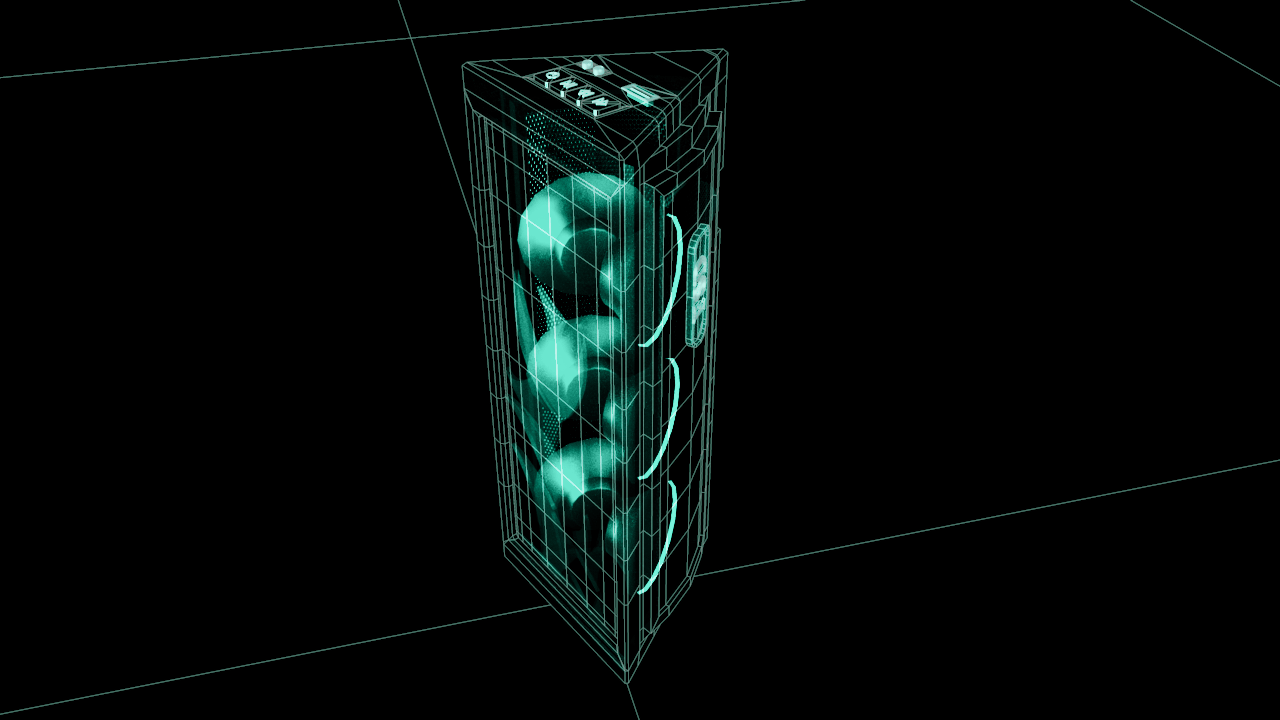
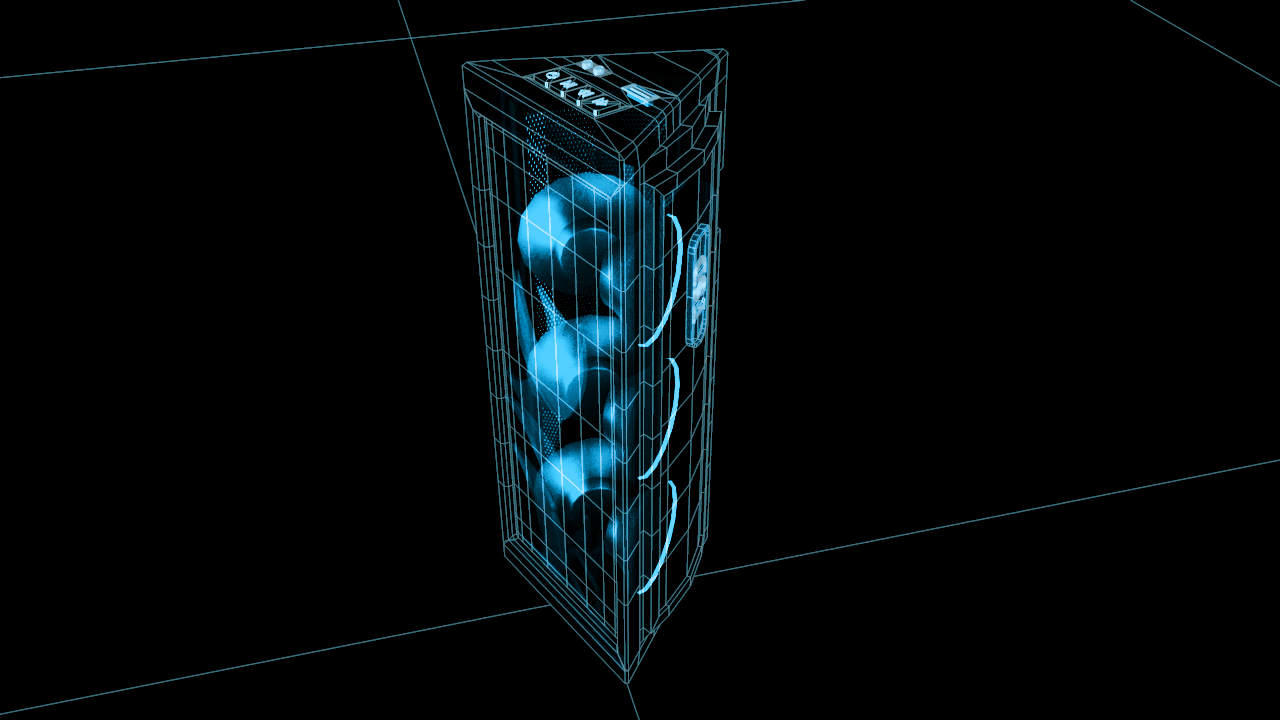
feat: Slider variables
* Make the X-Ray images not draggable
* Set a CSS custom property for the X-Ray progress, which is to be controlled through JS
* Set a box shadow for the X-Ray viewport
* Set the JS variable for the X-Ray slider and its progress

Changed region(s): [[0.375, 0.1528, 0.5625, 0.825], [0.4688, 0.1222, 0.5312, 0.1528], [0.4375, 0.825, 0.4688, 0.8861]]

diff --git a/css/main.css b/css/main.css
@@ -1,1 +1,1 @@
-@import"https://fonts.googleapis.com/css2?family=Georama:ital,wght@0,100..900;1,100..900&display=swap";nav ul,#main-header nav ul{margin:0;padding:0;list-style:none}#main-header nav ul{display:flex;flex-direction:row;justify-content:center;align-items:center}#main-header nav ul a{text-decoration:none;color:inherit;transition:.25s 0s all cubic-bezier(0.7, 0.68, 0.22, 1)}#hero,.burger,.logo{background-size:cover;background-position:center center;background-repeat:no-repeat}.burger,.logo{min-height:33px;min-width:33px;background-size:contain}:root{font-size:12px}body{font-family:"Georama",Helvetica,sans-serif;color:#fff}p,h2{-webkit-text-wrap:pretty;-moz-text-wrap:pretty;text-wrap:pretty}h2{text-align:left;font-size:3rem;line-height:1em;font-weight:650;color:rgb(255,68.1,95.0197530864);z-index:5}h2+p{margin-top:1.5rem}p{font-size:1rem;font-weight:250;line-height:1.5em}@media screen and (min-width: 768px){:root{font-size:calc(1px + 1.25vw)}}@media screen and (min-width: 1200px){:root{font-size:min(1px + 1vw,126px)}}model-viewer{width:auto;max-width:1200px;height:700px;background-image:linear-gradient(#343168, #f30023, #7a75bc);margin:0 auto;position:relative}.Hotspot{background:url(../images/hotspot.svg) center no-repeat;border:0;cursor:pointer;width:45px;aspect-ratio:1/1}.Hotspot:not([data-visible]){opacity:0;pointer-events:none}.Hotspot:focus{border:4px solid #0080c8;height:32px;outline:none}.HotspotAnnotation{opacity:0;visibility:hidden;transition:all .5s ease-in-out;background:#000;border-radius:4px;box-shadow:0 2px 4px hsla(0,0%,100%,.25);color:#fff;display:grid;grid-template-columns:23.3% 1fr;align-items:end;gap:1rem;font-family:"Georama",Helvetica Neue,sans-serif;font-size:1.15rem;font-weight:700;max-width:min(30vw,250px);overflow-wrap:break-word;padding:.5rem 1rem;position:absolute;bottom:-100%;left:calc(100% + 1rem);width:-moz-max-content;width:max-content;text-align:left}.Hotspot:hover .HotspotAnnotation{opacity:1;visibility:visible}.HotspotAnnotation p{font-size:.92rem;line-height:1.5rem;font-weight:300;grid-area:2/1/3/3}.HotspotAnnotation p.title{font-size:1.3rem;font-weight:500;grid-area:1/2/2/3}.HotspotAnnotation img{aspect-ratio:1/1;justify-self:end;background-color:#cfcfcf;grid-area:1/1/2/2}model-viewer::part(default-progress-bar){height:30px;background-color:#e89b36}model-viewer::part(default-progress-mask){display:none}header{display:flex;flex-direction:column-reverse}#main-header{position:sticky;z-index:10;inset:0;height:-moz-fit-content;height:fit-content;padding:1dvh 2vw;align-items:center;background-color:#000;overflow:hidden;color:#fff}#main-header nav{opacity:0;max-height:0}#main-header nav ul li a:hover{color:#ff425e}#main-header #nav-links{text-transform:uppercase;font-size:1rem;font-weight:500}#main-header #nav-links li{margin-inline:1.55rem}#main-header #nav-icons{font-size:1.75rem;justify-content:end}#main-header #nav-icons li{margin-inline:.5rem}#main-header .logo{background-position:left center;margin-top:.5rem;height:3.5rem;max-height:40px}@media screen and (max-width: 768px){#burger-btn{justify-self:end}#burger-btn.clicked+nav{opacity:1;max-height:100vh;margin-top:3rem;border-top:2px solid #fff}#burger-btn.clicked+nav #nav-links{margin-top:1rem;flex-direction:column;height:30dvh;min-height:100px;font-size:1.5rem;justify-content:space-between;align-items:start;padding-bottom:5dvh}#burger-btn.clicked+nav #nav-icons{margin-top:2rem;order:-1}}@media screen and (min-width: 768px){#main-header .logo{max-height:unset}#main-header nav{opacity:1;max-height:100vh}#burger-btn{display:none}}#canvas-con{overflow:hidden}#explode-view{margin:0 auto;background-color:#000}:root{--x-ray-progress: 40%}#x-ray{height:-moz-min-content;height:min-content;margin-bottom:4vh;order:-1;container-type:inline-size;container-name:x-ray-text}@container x-ray-text{h2{font-size:min(11.3cqw + 1px,36px)}p{font-size:12px}}#x-ray-viewport{aspect-ratio:4/5}#x-ray-img-con{position:relative;overflow:hidden;height:100%}#x-ray-img-con img{position:absolute;top:0;left:-85%;max-width:1200px;max-height:100%}#x-ray-img-con img:first-child{z-index:6;-webkit-mask-image:linear-gradient(#fff 0%, #fff var(--x-ray-progress), transparent calc(var(--x-ray-progress) + 6%));-moz-mask-image:linear-gradient(#fff 0%, #fff var(--x-ray-progress), transparent calc(var(--x-ray-progress) + 6%));mask-image:linear-gradient(#fff 0%, #fff var(--x-ray-progress), transparent calc(var(--x-ray-progress) + 6%))}#x-ray-slider{writing-mode:vertical-lr;justify-self:start;align-self:center;height:87%}@media screen and (min-width: 768px){#x-ray-con .hrapper{height:75%;aspect-ratio:3/2}#x-ray{margin-left:6%;margin-bottom:0;align-self:end;order:1}#x-ray-viewport{aspect-ratio:unset}@container x-ray-text{h2{font-size:calc(11.3cqw + 1px)}p{font-size:max(12px,4.5cqw + 1px)}}}.logo{cursor:pointer;background-image:url(../images/fsd-logoW.svg)}.burger{background-color:rgba(0,0,0,0);border:none;cursor:pointer}.burger{aspect-ratio:1/1 !important;width:3rem;aspect-ratio:1/1;background-image:url(../images/burger_icon.svg);filter:invert(100%);transition:.25s 0s transform cubic-bezier(0.7, 0.68, 0.22, 1)}.burger.clicked{transform:rotate(90deg)}body{background-color:#000}#hero{position:relative;overflow:hidden;height:90dvh;background-image:url(../images/hero-promo2.jpg);background-color:#360000}#hero::before{content:"";position:absolute;inset:0 0;width:100%;height:100%;background-image:linear-gradient(rgba(18, 1, 188, 0.062745098), rgba(18, 1, 188, 0.1882352941) 40%, rgba(33, 3, 0, 0.8862745098) 97%);background-blend-mode:multiply}#hero>section{height:100%}#intro-text{z-index:2;align-self:end;container-type:inline-size;container-name:intro-text}#intro-text img{width:100%;filter:drop-shadow(4px 4px 4px rgba(0, 0, 0, 0.5137254902))}main{z-index:5}.main-sect{width:100%;height:100dvh;min-height:-moz-max-content;min-height:max-content;display:flex;justify-content:center;align-items:center}.main-sect .wrapper,.main-sect .hrapper{width:100%}.pad-sect{padding:11% 7%}@media screen and (min-width: 768px){#hero{background-position-x:10vw}.main-sect:has(.hrapper){min-height:56.25vmax}.main-sect .wrapper{height:unset;width:100%;max-height:90%}.main-sect .hrapper{width:unset;height:90%;max-width:100%}.pad-sect{padding:2% 5%}}@media screen and (min-aspect-ratio: 4/5){#intro-text img{width:unset;height:25dvh}}/*# sourceMappingURL=main.css.map */
+@import"https://fonts.googleapis.com/css2?family=Georama:ital,wght@0,100..900;1,100..900&display=swap";nav ul,#main-header nav ul{margin:0;padding:0;list-style:none}#main-header nav ul{display:flex;flex-direction:row;justify-content:center;align-items:center}#main-header nav ul a{text-decoration:none;color:inherit;transition:.25s 0s all cubic-bezier(0.7, 0.68, 0.22, 1)}#hero,.burger,.logo{background-size:cover;background-position:center center;background-repeat:no-repeat}.burger,.logo{min-height:33px;min-width:33px;background-size:contain}:root{font-size:12px}body{font-family:"Georama",Helvetica,sans-serif;color:#fff}p,h2{-webkit-text-wrap:pretty;-moz-text-wrap:pretty;text-wrap:pretty}h2{text-align:left;font-size:3rem;line-height:1em;font-weight:650;color:rgb(255,68.1,95.0197530864);z-index:5}h2+p{margin-top:1.5rem}p{font-size:1rem;font-weight:250;line-height:1.5em}@media screen and (min-width: 768px){:root{font-size:calc(1px + 1.25vw)}}@media screen and (min-width: 1200px){:root{font-size:min(1px + 1vw,126px)}}model-viewer{width:auto;max-width:1200px;height:700px;background-image:linear-gradient(#343168, #f30023, #7a75bc);margin:0 auto;position:relative}.Hotspot{background:url(../images/hotspot.svg) center no-repeat;border:0;cursor:pointer;width:45px;aspect-ratio:1/1}.Hotspot:not([data-visible]){opacity:0;pointer-events:none}.Hotspot:focus{border:4px solid #0080c8;height:32px;outline:none}.HotspotAnnotation{opacity:0;visibility:hidden;transition:all .5s ease-in-out;background:#000;border-radius:4px;box-shadow:0 2px 4px hsla(0,0%,100%,.25);color:#fff;display:grid;grid-template-columns:23.3% 1fr;align-items:end;gap:1rem;font-family:"Georama",Helvetica Neue,sans-serif;font-size:1.15rem;font-weight:700;max-width:min(30vw,250px);overflow-wrap:break-word;padding:.5rem 1rem;position:absolute;bottom:-100%;left:calc(100% + 1rem);width:-moz-max-content;width:max-content;text-align:left}.Hotspot:hover .HotspotAnnotation{opacity:1;visibility:visible}.HotspotAnnotation p{font-size:.92rem;line-height:1.5rem;font-weight:300;grid-area:2/1/3/3}.HotspotAnnotation p.title{font-size:1.3rem;font-weight:500;grid-area:1/2/2/3}.HotspotAnnotation img{aspect-ratio:1/1;justify-self:end;background-color:#cfcfcf;grid-area:1/1/2/2}model-viewer::part(default-progress-bar){height:30px;background-color:#e89b36}model-viewer::part(default-progress-mask){display:none}header{display:flex;flex-direction:column-reverse}#main-header{position:sticky;z-index:10;inset:0;height:-moz-fit-content;height:fit-content;padding:1dvh 2vw;align-items:center;background-color:#000;overflow:hidden;color:#fff}#main-header nav{opacity:0;max-height:0}#main-header nav ul li a:hover{color:#ff425e}#main-header #nav-links{text-transform:uppercase;font-size:1rem;font-weight:500}#main-header #nav-links li{margin-inline:1.55rem}#main-header #nav-icons{font-size:1.75rem;justify-content:end}#main-header #nav-icons li{margin-inline:.5rem}#main-header .logo{background-position:left center;margin-top:.5rem;height:3.5rem;max-height:40px}@media screen and (max-width: 768px){#burger-btn{justify-self:end}#burger-btn.clicked+nav{opacity:1;max-height:100vh;margin-top:3rem;border-top:2px solid #fff}#burger-btn.clicked+nav #nav-links{margin-top:1rem;flex-direction:column;height:30dvh;min-height:100px;font-size:1.5rem;justify-content:space-between;align-items:start;padding-bottom:5dvh}#burger-btn.clicked+nav #nav-icons{margin-top:2rem;order:-1}}@media screen and (min-width: 768px){#main-header .logo{max-height:unset}#main-header nav{opacity:1;max-height:100vh}#burger-btn{display:none}}#canvas-con{overflow:hidden}#explode-view{margin:0 auto;background-color:#000}:root{--x-ray-progress: 40%}#x-ray{height:-moz-min-content;height:min-content;margin-bottom:4vh;order:-1;container-type:inline-size;container-name:x-ray-text}@container x-ray-text{h2{font-size:min(11.3cqw + 1px,36px)}p{font-size:12px}}#x-ray-viewport{aspect-ratio:4/5}#x-ray-img-con{position:relative;overflow:hidden;height:100%;box-shadow:.75rem .5rem 1.5rem rgba(255,0,0,.3647058824)}#x-ray-img-con img{position:absolute;top:0;left:-85%;max-width:1200px;max-height:100%}#x-ray-img-con img:first-child{z-index:6;-webkit-mask-image:linear-gradient(#fff 0%, #fff var(--x-ray-progress), transparent calc(var(--x-ray-progress) + 6%));-moz-mask-image:linear-gradient(#fff 0%, #fff var(--x-ray-progress), transparent calc(var(--x-ray-progress) + 6%));mask-image:linear-gradient(#fff 0%, #fff var(--x-ray-progress), transparent calc(var(--x-ray-progress) + 6%))}#x-ray-slider{writing-mode:vertical-lr;justify-self:start;align-self:center;height:87%}@media screen and (min-width: 768px){#x-ray-con .hrapper{height:75%;aspect-ratio:3/2}#x-ray{margin-left:6%;margin-bottom:0;align-self:end;order:1}#x-ray-viewport{aspect-ratio:unset}@container x-ray-text{h2{font-size:calc(11.3cqw + 1px)}p{font-size:max(12px,4.5cqw + 1px)}}}.logo{cursor:pointer;background-image:url(../images/fsd-logoW.svg)}.burger{background-color:rgba(0,0,0,0);border:none;cursor:pointer}.burger{aspect-ratio:1/1 !important;width:3rem;aspect-ratio:1/1;background-image:url(../images/burger_icon.svg);filter:invert(100%);transition:.25s 0s transform cubic-bezier(0.7, 0.68, 0.22, 1)}.burger.clicked{transform:rotate(90deg)}body{background-color:#000}#hero{position:relative;overflow:hidden;height:90dvh;background-image:url(../images/hero-promo2.jpg);background-color:#360000}#hero::before{content:"";position:absolute;inset:0 0;width:100%;height:100%;background-image:linear-gradient(rgba(18, 1, 188, 0.062745098), rgba(18, 1, 188, 0.1882352941) 40%, rgba(33, 3, 0, 0.8862745098) 97%);background-blend-mode:multiply}#hero>section{height:100%}#intro-text{z-index:2;align-self:end;container-type:inline-size;container-name:intro-text}#intro-text img{width:100%;filter:drop-shadow(4px 4px 4px rgba(0, 0, 0, 0.5137254902))}main{z-index:5}.main-sect{width:100%;height:100dvh;min-height:-moz-max-content;min-height:max-content;display:flex;justify-content:center;align-items:center}.main-sect .wrapper,.main-sect .hrapper{width:100%}.pad-sect{padding:11% 7%}@media screen and (min-width: 768px){#hero{background-position-x:10vw}.main-sect:has(.hrapper){min-height:56.25vmax}.main-sect .wrapper{height:unset;width:100%;max-height:90%}.main-sect .hrapper{width:unset;height:90%;max-width:100%}.pad-sect{padding:2% 5%}}@media screen and (min-aspect-ratio: 4/5){#intro-text img{width:unset;height:25dvh}}/*# sourceMappingURL=main.css.map */

diff --git a/index.html b/index.html
@@ -60,8 +60,8 @@
                 <div class="hrapper grid-con">
                     <div id="x-ray-viewport" class="subgrid-con col-span-full m-col-start-1 m-col-end-7">
                         <div id="x-ray-img-con" class="col-span-3 m-col-span-5">
-                            <img src="images/prismXray3.png" alt="Normal view of the Delonix">                                
-                            <img src="images/prismXray.png" alt="X-Ray view of the Delonix with visible components">
+                            <img src="images/prismXray3.png" draggable="false" alt="Normal view of the Delonix">                                
+                            <img src="images/prismXray.png" draggable="false" alt="X-Ray view of the Delonix with visible components">
                         </div>
                         
                         <input type="range" id="x-ray-slider">

diff --git a/js/main.js b/js/main.js
@@ -5,11 +5,14 @@ console.log("JS file connected");
 const burgerBtn = document.querySelector("#burger-btn");
 let burgerHidden = true;
 
+//X-Ray View
+const xRaySlider = document.querySelector("#x-ray-slider");
+let xRayProgress = 0;
+
 // Model Viewer
 const viewer = document.querySelector("model-viewer");
 const viewerCon = document.querySelector("#viewer-con");
 const hotspots = document.querySelectorAll(".Hotspot");
-
 
 // Hotspot Annotations
 const temp = document.querySelector("#annotation-template");

diff --git a/sass/components/_x-ray.scss b/sass/components/_x-ray.scss
@@ -29,6 +29,7 @@
     position: relative;
     overflow: hidden;
     height: 100%;
+    box-shadow: 0.75rem 0.5rem 1.5rem #ff00005d;
 
     img {
         position: absolute;
